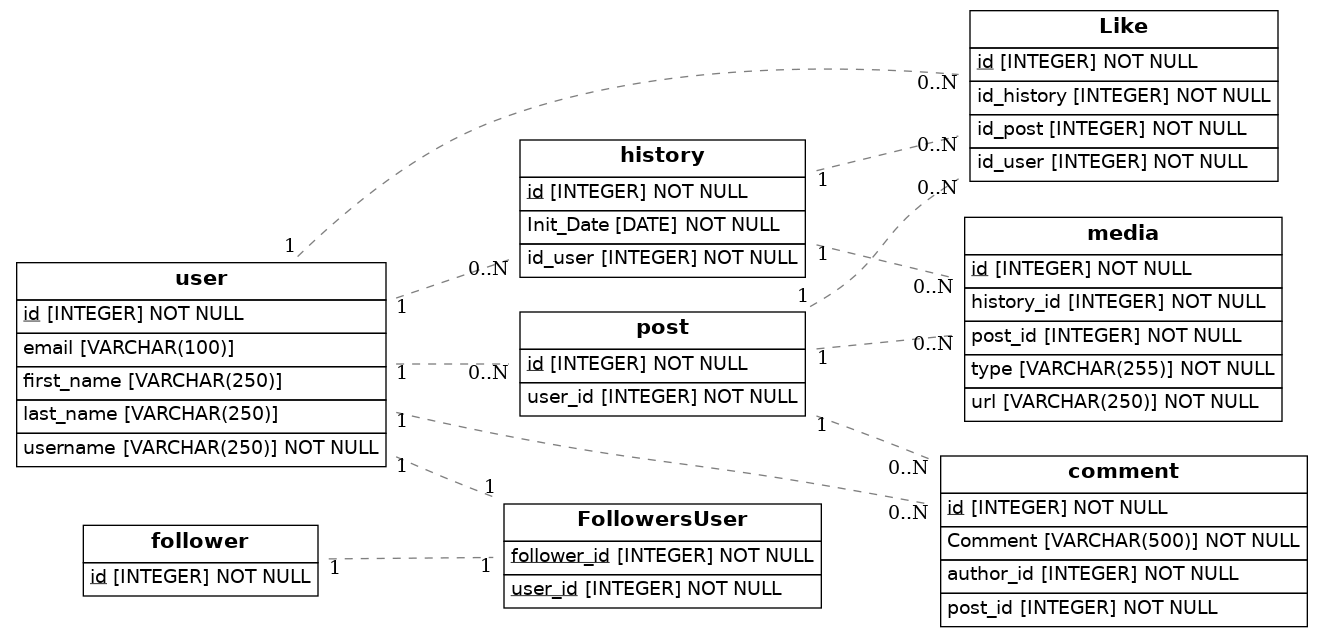
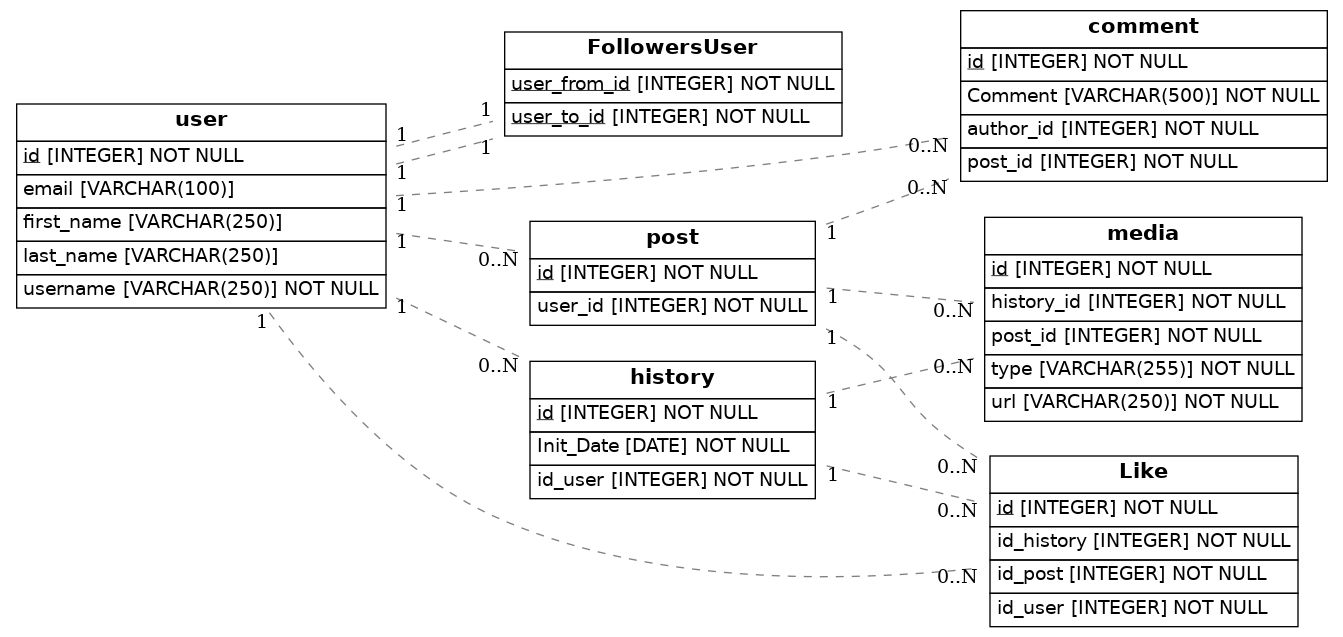
ahora si ultimo commit

diff --git a/src/models.py b/src/models.py
@@ -9,9 +9,8 @@ Base = declarative_base()
 
 class FollowersUser(Base):
     __tablename__ = 'FollowersUser'
-    user_id = Column(Integer, ForeignKey(
-        'user.id'), primary_key=True)
-    follower_id = Column(Integer, ForeignKey('follower.id'), primary_key=True)
+    user_from_id = Column(Integer, ForeignKey('user.id'), primary_key=True)
+    user_to_id = Column(Integer, ForeignKey('user.id'), primary_key=True)
 
 class User(Base):
     __tablename__ = 'user'
@@ -20,19 +19,13 @@ class User(Base):
     first_name= Column(String(250))
     last_name= Column(String(250))
     email= Column(String(100), unique=True)
+    relationship("FollowersUser")
 
 
     # Here we define columns for the table person
     # Notice that each column is also a normal Python instance attribute.
 
 
-class Follower(Base):
-    __tablename__ = 'follower'
-    id = Column(Integer,primary_key=True,autoincrement=True)
-
-
-    # Here we define columns for the table person
-    # Notice that each column is also a normal Python instance attribute.
 
 
 class Post(Base):
